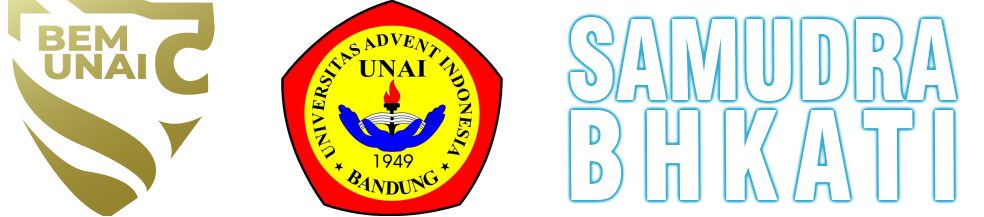
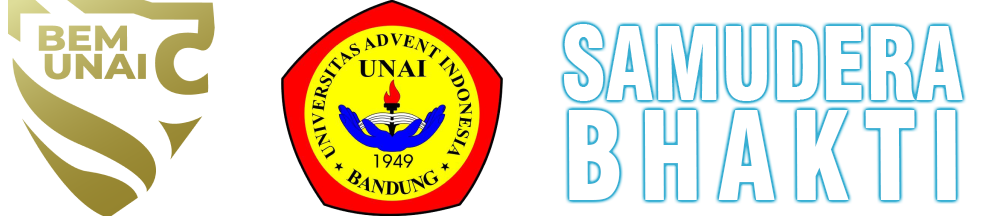
revisi typo

Changed region(s): [[0.5488, 0.0553, 1.0, 0.9401]]

diff --git a/src/app/kelola-pemerintahan/Form.tsx b/src/app/kelola-pemerintahan/Form.tsx
@@ -1,4 +1,4 @@
-"use client"
+"use client";
 
 import { saveOrganisasi, getAllOrganisasi } from "@/app/lib/organisasi";
 import { redirect } from "next/navigation";
@@ -6,126 +6,154 @@ import { useActionState, useEffect, useState } from "react";
 import { toast } from "react-toastify";
 
 interface Organisasi {
-    id: string;
-    title: string;
-    abbreviation: string;
-    type: string;
-    description: string | null;
-    familyId: string | null;
+  id: string;
+  title: string;
+  abbreviation: string;
+  type: string;
+  description: string | null;
+  familyId: string | null;
 }
 
 export default function Form({ prevData }: { prevData?: Organisasi }) {
-    const [data, saveAction, pending] = useActionState(saveOrganisasi, undefined);
-    const [organisasiList, setOrganisasiList] = useState<Organisasi[]>([]);
+  const [data, saveAction, pending] = useActionState(saveOrganisasi, undefined);
+  const [organisasiList, setOrganisasiList] = useState<Organisasi[]>([]);
 
-    useEffect(() => {
-        const fetchOrganisasi = async () => {
-            const data = await getAllOrganisasi();
-            setOrganisasiList(data.filter(org => org.type === "Kementrian"));
-        };
-        fetchOrganisasi();
-    }, []);
+  useEffect(() => {
+    const fetchOrganisasi = async () => {
+      const data = await getAllOrganisasi();
+      setOrganisasiList(data.filter((org) => org.type === "Kementerian"));
+    };
+    fetchOrganisasi();
+  }, []);
 
-    useEffect(() => {
-        if (data?.success) {
-            toast.success(data.success.message, {
-                position: "top-right",
-                autoClose: 3000,
-                theme:"dark"
-            });
-            redirect(data.success.redirect);
-        } else if (data?.errors?.message) {
-            toast.error(`Error: ${data.errors.message}`);
-        }
-    }, [data]);
-    
-    return (
-        <form action={saveAction} className="w-full max-w-lg">
-            <input type="hidden" name="id" className="text-black"defaultValue={prevData?.id || ""} />
-            <div className="mb-4">
-                <label className="label">
-                    <span className="text-base label-text">Nama</span>
-                </label>
-                <input
-                    type="text"
-                    id="title"
-                    name="title"
-                    defaultValue={prevData?.title || data?.data?.title}
-                    placeholder="Masukkan Nama"
-                    className="w-full text-black input input-bordered input-secondary"
-                    required
-                />
-            </div>
-            <div className="mb-4">
-                <label className="label">
-                    <span className="text-base label-text">Singkatan</span>
-                </label>
-                <input
-                    type="text"
-                    id="abbreviation"
-                    name="abbreviation"
-                    defaultValue={prevData?.abbreviation || data?.data?.abbreviation}
-                    placeholder="Masukkan Nama"
-                    className="w-full text-black input input-bordered input-secondary"
-                    required
-                />
-            </div>
-            <div className="mb-4">
-                <label className="label">
-                    <span className="text-base label-text">Type</span>
-                </label>
-                <select
-                    id="type"
-                    name="type"
-                    className="w-full text-black select select-bordered select-secondary"
-                    required
-                    defaultValue={prevData?.type || data?.data?.type}
-                >
-                    <option value="" className="text-gray-500">Pilih Type</option>
-                    <option value="Staff Inti">Staff Inti</option>
-                    <option value="Kementrian">Kementrian</option>
-                    <option value="Divisi">Divisi</option>
-                </select>
-            </div>
-            <div className="mb-4">
-                <label className="label">
-                    <span className="text-base label-text">Deskripsi</span>
-                </label>
-                <textarea id="description" name="description" defaultValue={prevData?.description || data?.data?.description} className="textarea text-black textarea-bordered textarea-secondary w-full h-44" placeholder="Masukkan Deskripsi"></textarea>
-            </div>
+  useEffect(() => {
+    if (data?.success) {
+      toast.success(data.success.message, {
+        position: "top-right",
+        autoClose: 3000,
+        theme: "dark",
+      });
+      redirect(data.success.redirect);
+    } else if (data?.errors?.message) {
+      toast.error(`Error: ${data.errors.message}`);
+    }
+  }, [data]);
 
-            <div className="mb-4">
-                <label className="label">
-                    <span className="text-base label-text flex items-end">{prevData ? (<span className="ml-2 text-secondary"> Parent:  <p>{organisasiList.find(org => org.id === prevData?.familyId)?.title || "Parent not found"}</p></span>) :  "Pilih Parent:"  }</span>
-                    <span className="label-text-alt"> (Optional)</span>
-                </label>
+  return (
+    <form action={saveAction} className="w-full max-w-lg">
+      <input
+        type="hidden"
+        name="id"
+        className="text-black"
+        defaultValue={prevData?.id || ""}
+      />
+      <div className="mb-4">
+        <label className="label">
+          <span className="text-base label-text">Nama</span>
+        </label>
+        <input
+          type="text"
+          id="title"
+          name="title"
+          defaultValue={prevData?.title || data?.data?.title}
+          placeholder="Masukkan Nama"
+          className="w-full text-black input input-bordered input-secondary"
+          required
+        />
+      </div>
+      <div className="mb-4">
+        <label className="label">
+          <span className="text-base label-text">Singkatan</span>
+        </label>
+        <input
+          type="text"
+          id="abbreviation"
+          name="abbreviation"
+          defaultValue={prevData?.abbreviation || data?.data?.abbreviation}
+          placeholder="Masukkan Nama"
+          className="w-full text-black input input-bordered input-secondary"
+          required
+        />
+      </div>
+      <div className="mb-4">
+        <label className="label">
+          <span className="text-base label-text">Type</span>
+        </label>
+        <select
+          id="type"
+          name="type"
+          className="w-full text-black select select-bordered select-secondary"
+          required
+          defaultValue={prevData?.type || data?.data?.type}
+        >
+          <option value="" className="text-gray-500">
+            Pilih Type
+          </option>
+          <option value="Staff Inti">Staff Inti</option>
+          <option value="Kementerian">Kementerian</option>
+          <option value="Divisi">Divisi</option>
+        </select>
+      </div>
+      <div className="mb-4">
+        <label className="label">
+          <span className="text-base label-text">Deskripsi</span>
+        </label>
+        <textarea
+          id="description"
+          name="description"
+          defaultValue={prevData?.description || data?.data?.description}
+          className="textarea text-black textarea-bordered textarea-secondary w-full h-44"
+          placeholder="Masukkan Deskripsi"
+        ></textarea>
+      </div>
 
-                <select
-                    id="familyId"
-                    name="familyId"
-                    className="w-full text-black select select-bordered select-secondary"
-                >
-                    <option key="" value="" className="text-gray-500">Pilih Parent</option>
-                    {organisasiList.map((org) => (
-                        <option key={org.id} value={org.id}>
-                            {org.title}
-                        </option>
-                    ))}
-                </select>
-
-
-            </div>
-
-            <div className="flex justify-center">
-                {pending ? <span className="loading loading-spinner loading-xl text-center mt-5"></span> :
-                    <button className="bg-gradient-to-r w-full from-secondary to-[#ffff] text-primary px-4 py-2 rounded-xl transition duration-300 transform hover:scale-105 hover:from-[#ffff] hover:to-secondary hover:text-black">
-                        {prevData ? "Edit" : "Buat Baru"}
-                    </button>
-                }
-            </div>
-            {data?.errors?.message && (
-                <p className="text-red-500 mt-2">{data.errors.message}</p>
+      <div className="mb-4">
+        <label className="label">
+          <span className="text-base label-text flex items-end">
+            {prevData ? (
+              <span className="ml-2 text-secondary">
+                {" "}
+                Parent:{" "}
+                <p>
+                  {organisasiList.find((org) => org.id === prevData?.familyId)
+                    ?.title || "Parent not found"}
+                </p>
+              </span>
+            ) : (
+              "Pilih Parent:"
             )}
-        </form>
-    );
+          </span>
+          <span className="label-text-alt"> (Optional)</span>
+        </label>
+
+        <select
+          id="familyId"
+          name="familyId"
+          className="w-full text-black select select-bordered select-secondary"
+        >
+          <option key="" value="" className="text-gray-500">
+            Pilih Parent
+          </option>
+          {organisasiList.map((org) => (
+            <option key={org.id} value={org.id}>
+              {org.title}
+            </option>
+          ))}
+        </select>
+      </div>
+
+      <div className="flex justify-center">
+        {pending ? (
+          <span className="loading loading-spinner loading-xl text-center mt-5"></span>
+        ) : (
+          <button className="bg-gradient-to-r w-full from-secondary to-[#ffff] text-primary px-4 py-2 rounded-xl transition duration-300 transform hover:scale-105 hover:from-[#ffff] hover:to-secondary hover:text-black">
+            {prevData ? "Edit" : "Buat Baru"}
+          </button>
+        )}
+      </div>
+      {data?.errors?.message && (
+        <p className="text-red-500 mt-2">{data.errors.message}</p>
+      )}
+    </form>
+  );
 }

diff --git a/src/components/footer.tsx b/src/components/footer.tsx
@@ -3,12 +3,11 @@ import {
   AiOutlineInstagram,
   AiOutlineTikTok,
 } from "react-icons/ai";
-import Image from 'next/image';
+import Image from "next/image";
 
 export function Footer() {
   return (
     <footer className="bg-black">
-
       <div className="footer text-base-content items-start md:justify-between px-5 md:px-20 py-10 flex flex-col md:flex-row">
         <div className="md:mx-0 mx-auto">
           <Image
@@ -28,14 +27,15 @@ export function Footer() {
             height={320}
           />
           <p className="md:mt-5  font-light text-gray-400">
-            Jl. Kolonel Masturi No.288, Cihanjuang Rahayu, <br /> Kec. Parongpong,
-            Kabupaten Bandung Barat, Jawa Barat 40559
+            Jl. Kolonel Masturi No.288, Cihanjuang Rahayu, <br /> Kec.
+            Parongpong, Kabupaten Bandung Barat, Jawa Barat 40559
           </p>
         </div>
       </div>
       <div className=" md:px-20 py-5 md:py-10 flex flex-col md:flex-row justify-between items-center">
         <p className="text-xs md:text-sm text-gray-300 mb-5 md:mb-0 order-2 md:order-1">
-          Copyright © {new Date().getFullYear()} - Kementrian Komunikasi BEM UNAI
+          Copyright © {new Date().getFullYear()} - Kementerian Komunikasi BEM
+          UNAI
         </p>
 
         <div className="flex gap-5 order-1 md:order-2 mb-5 md:mb-0">

diff --git a/src/components/hero.tsx b/src/components/hero.tsx
@@ -8,7 +8,7 @@ export function Hero() {
             Kabinet 2025 - 2026
           </p>
           <h1 className="font-bigNoddle judul">
-            SAMUDRA <span className="ml-0">BHAKTI</span>
+            SAMUDERA <span className="ml-0">BHAKTI</span>
           </h1>
           <p className="text-lg md:text-xl my-5 leading-tight ">
             <span className="bg-secondary text-primary px-2 py-1">

diff --git a/src/app/pemerintahan/[abbreviation]/page.tsx b/src/app/pemerintahan/[abbreviation]/page.tsx
@@ -52,7 +52,7 @@ export default async function Page({
 }) {
   const { abbreviation } = await params;
   const data = await getOrganisasiByAbbreviation(abbreviation);
-  const parent = data?.type === "Kementrian";
+  const parent = data?.type === "Kementerian";
 
   if (!data) {
     return <NotFound />;
